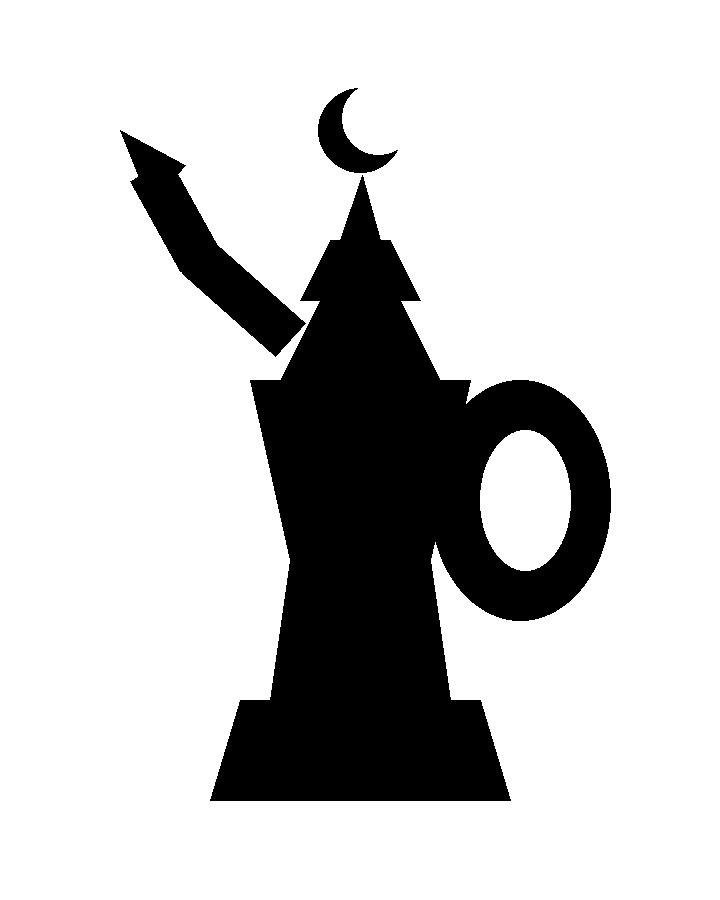
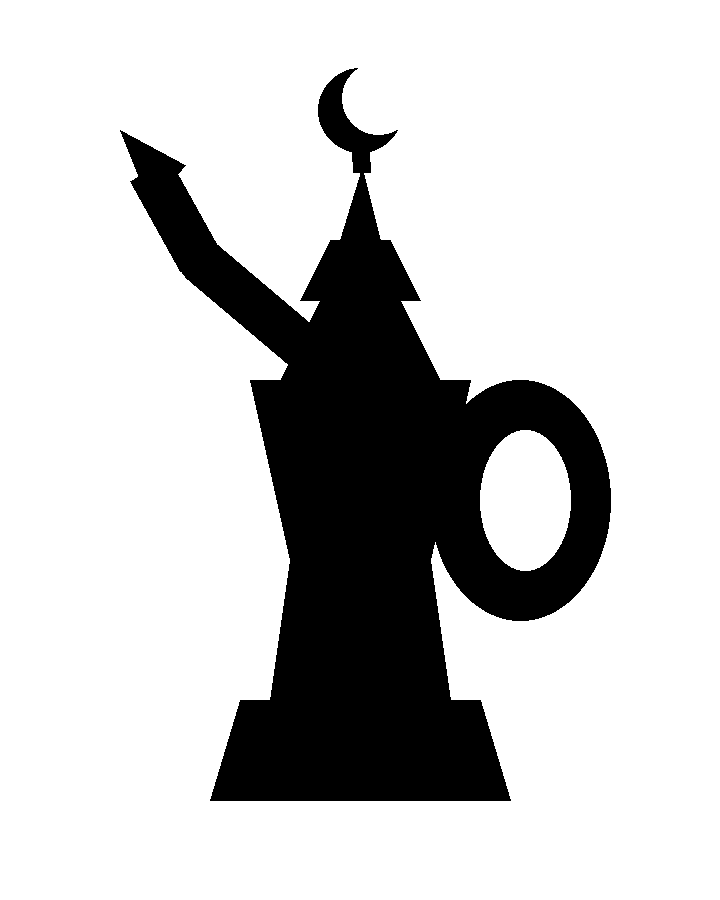
The culture five drawn, pending: pretzel, crane, dallah, basil, panda
Eric's "strongest five" from the 15-language culture list (feature 2),
drawn as SpellGame originals -- Commons had no clean PD silhouettes and
the famous panda marks are trademarks, which settles the sourcing
question. Lessons carried: the crane's first cut used fold seams and
they severed the bird (one-unbroken-outline wins); the dallah's
crescent flagged while floating and passes attached by its stem.
Panda's eye patches are micro holes the renderer fills dark -- the
snowman's-eyes machinery finding its best subject yet. Zero corridor
flags across all five. Every candidate pending for Eric.

Changed region(s): [[0.4278, 0.0622, 0.55, 0.2178], [0.3667, 0.3422, 0.4278, 0.4044]]

diff --git a/tools/draw_wave6.py b/tools/draw_wave6.py
@@ -53,18 +53,15 @@ def pretzel():
 
 def crane():
     """Origami crane: every edge is a fold, so the silhouette is all
-    angles. The wing-fold and neck-fold seams are 40px white creases (the
-    kite's spar lesson — a crease narrower than the corridor floor puts
-    both its sides inside one corridor)."""
+    angles — ONE unbroken outline (the field rule; the first cut tried
+    40px fold seams and they severed the bird into floating pieces).
+    Folds live in the angles, not in creases."""
     im, d = canvas(860, 700)
     d.polygon([(180, 470), (420, 350), (640, 470), (400, 580)], fill=BLACK)  # body
-    d.polygon([(180, 470), (110, 240), (150, 215), (255, 415)], fill=BLACK)  # neck
-    d.polygon([(110, 240), (60, 205), (128, 202)], fill=BLACK)               # head + beak
-    d.polygon([(330, 385), (430, 120), (530, 385)], fill=BLACK)              # standing wing
-    d.polygon([(640, 470), (800, 380), (700, 520)], fill=BLACK)              # tail spike
-    # fold seams: wing/body and neck/body, 40px
-    d.line([(320, 400), (545, 400)], fill=WHITE, width=40)
-    d.line([(215, 455), (250, 385)], fill=WHITE, width=40)
+    d.polygon([(180, 470), (110, 240), (150, 215), (275, 400)], fill=BLACK)  # neck
+    d.polygon([(112, 250), (60, 205), (130, 200), (150, 215)], fill=BLACK)   # head + beak
+    d.polygon([(340, 380), (430, 120), (520, 380), (430, 425)], fill=BLACK)  # standing wing
+    d.polygon([(600, 445), (800, 380), (660, 525)], fill=BLACK)              # tail spike
     return im
 
 
@@ -78,12 +75,14 @@ def dallah():
     d.polygon([(240, 700), (480, 700), (510, 800), (210, 800)], fill=BLACK)  # flared base
     d.polygon([(280, 380), (440, 380), (400, 300), (320, 300)], fill=BLACK)  # shoulder
     d.polygon([(300, 300), (420, 300), (390, 240), (330, 240)], fill=BLACK)  # lid
-    d.polygon([(340, 240), (380, 240), (362, 175)], fill=BLACK)              # lid peak
-    # crescent finial (moonstar construction, culture-true)
-    circle(d, 360, 130, 42, BLACK)
-    circle(d, 378, 118, 36, WHITE)
-    # spout: sweeping S from the shoulder, 46px wide
-    d.line([(290, 340), (200, 260), (150, 170)], fill=BLACK, width=46, joint="curve")
+    d.polygon([(340, 240), (380, 240), (362, 168)], fill=BLACK)              # lid peak
+    # crescent finial ATTACHED by its stem — a floating crescent flagged
+    # against the lid peak; attached, finial and pot are one contour
+    d.line([(362, 172), (360, 130)], fill=BLACK, width=18)
+    circle(d, 360, 110, 42, BLACK)
+    circle(d, 378, 98, 36, WHITE)
+    # spout: rooted DEEP in the shoulder (hinge overlap >= 20px), 46px wide
+    d.line([(330, 370), (200, 260), (150, 170)], fill=BLACK, width=46, joint="curve")
     d.polygon([(120, 130), (185, 165), (150, 205)], fill=BLACK)              # spout mouth
     # handle: outer arm with the HOLE
     d.ellipse([430, 380, 610, 620], fill=BLACK)
